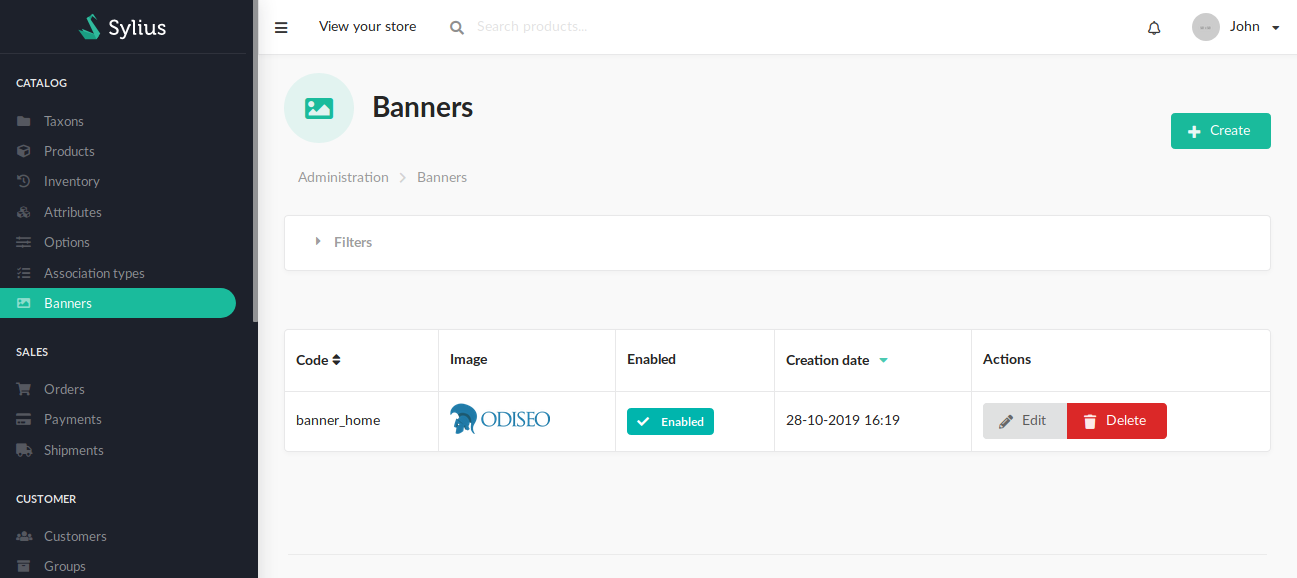
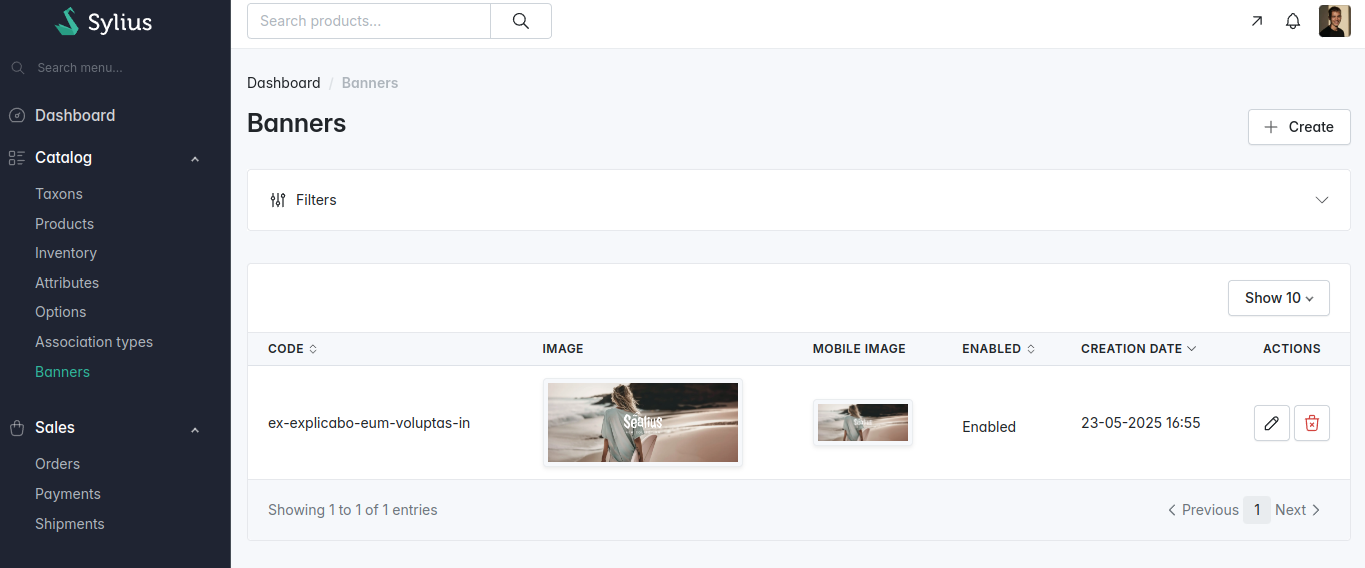
update to 2.0

diff --git a/doc/installation.md b/doc/installation.md
@@ -1,50 +1,45 @@
 ## Installation
 
-1. Run `composer require odiseoteam/sylius-banner-plugin --no-scripts`
+1. Run `composer require odiseoteam/sylius-banner-plugin`
 
-2. Enable the plugin in bundles.php
+2. Run `yarn add swiper@^11.2.7`
 
-```php
-<?php
-// config/bundles.php
+3. Run `yarn encore dev` or `yarn encore production`
 
-return [
-    // ...
-    Vich\UploaderBundle\VichUploaderBundle::class => ['all' => true],
-    Odiseo\SyliusBannerPlugin\OdiseoSyliusBannerPlugin::class => ['all' => true],
-];
-```
-
-3. Import the plugin configurations
+4. Import the plugin configurations
 
 ```yml
 # config/packages/_sylius.yaml
 imports:
     # ...
-    - { resource: "@OdiseoSyliusBannerPlugin/Resources/config/config.yaml" }
+    - { resource: "@OdiseoSyliusBannerPlugin/config/config.yaml" }
 ```
 
-4. Add the shop and admin routes
+5. Add the shop and admin routes
 
 ```yml
 # config/routes.yaml
-odiseo_sylius_banner_plugin_admin:
-    resource: "@OdiseoSyliusBannerPlugin/Resources/config/routing/admin.yaml"
+odiseo_sylius_banner_admin:
+    resource: "@OdiseoSyliusBannerPlugin/config/admin_routing.yaml"
     prefix: /admin
 
-odiseo_sylius_banner_plugin_shop:
-    resource: "@OdiseoSyliusBannerPlugin/Resources/config/routing/shop.yaml"
+odiseo_sylius_banner_shop:
+    resource: "@OdiseoSyliusBannerPlugin/config/shop_routing.yaml"
     prefix: /{_locale}/banners
     requirements:
         _locale: ^[A-Za-z]{2,4}(_([A-Za-z]{4}|[0-9]{3}))?(_([A-Za-z]{2}|[0-9]{3}))?$
 ```
 
-5. Create banner folder: run `mkdir public/media/banner-image -p` and insert a .gitkeep file in that folder
-
-6. Finish the installation updating the database schema and installing assets
+6. Finish the installation updating by runing migrations
 
 ```
 php bin/console doctrine:migrations:migrate
-php bin/console sylius:theme:assets:install
 php bin/console cache:clear
 ```
+Optional, run fixtures to load one banner: 
+
+```
+php bin/console sylius:fixtures:load -n
+```
+
+7. Installation complete! Now you will see the new section under "Catalog" menu on the admin panel. Also you will see the banner on the homepage.

diff --git a/README.md b/README.md
@@ -35,30 +35,31 @@ Features:
 
 * Templates: Show all images or by taxon.
 
-* Sliders: Provides sliders for the images ([Swiper](https://github.com/nolimits4web/swiper), [Glide](https://github.com/glidejs/glide), [SliderPro](https://github.com/bqworks/slider-pro)) or choose your own library.
+* Sliders: We are providing the integration with [Swiper.js](https://github.com/nolimits4web/swiper). 
 
-Support Sylius version 1.9+.
+Supported versions:
+
+| Package       | Version |
+|---------------|---------|
+| PHP           | ^8.2    |
+| sylius/sylius | ^2.0    |
 
 ## Screenshots
 
 <img src="https://github.com/odiseoteam/SyliusBannerPlugin/blob/master/screenshot_1.png" alt="Banners admin" width="650">
-<img src="https://github.com/odiseoteam/SyliusBannerPlugin/blob/master/screenshot_2.png" alt="Banners shop homepage" width="650">
-<img src="https://github.com/odiseoteam/SyliusBannerPlugin/blob/master/screenshot_3.png" alt="Banners shop taxon" width="650">
+<img src="https://github.com/odiseoteam/SyliusBannerPlugin/blob/master/screenshot_2.png" alt="Banners admin edit" width="650">
+<img src="https://github.com/odiseoteam/SyliusBannerPlugin/blob/master/screenshot_3.png" alt="Banners shop homepage" width="650">
 
 ## Demo
 
 You can see this plugin in action in our Sylius Demo application.
 
-- Frontend: [sylius-demo.odiseo.com.ar](https://sylius-demo.odiseo.com.ar).
-- Administration: [sylius-demo.odiseo.com.ar/admin](https://sylius-demo.odiseo.com.ar/admin) with `odiseo: odiseo` credentials.
+- Frontend: [sylius-demo.odiseo.io](https://sylius-demo.odiseo.io).
+- Administration: [sylius-demo.odiseo.io/admin](https://sylius-demo.odiseo.io/admin) with `odiseo: odiseo` credentials.
 
 ## Documentation
 
 - [Installation](doc/installation.md)
-- [Usage](doc/usage.md)
-- [Fixtures](doc/fixtures.md)
-- [Customization](doc/customization.md)
-- [Tests](doc/tests.md)
 
 ## Credits
 
